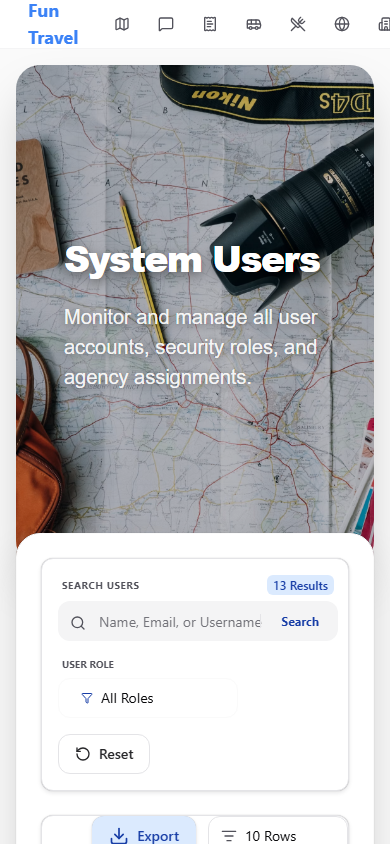
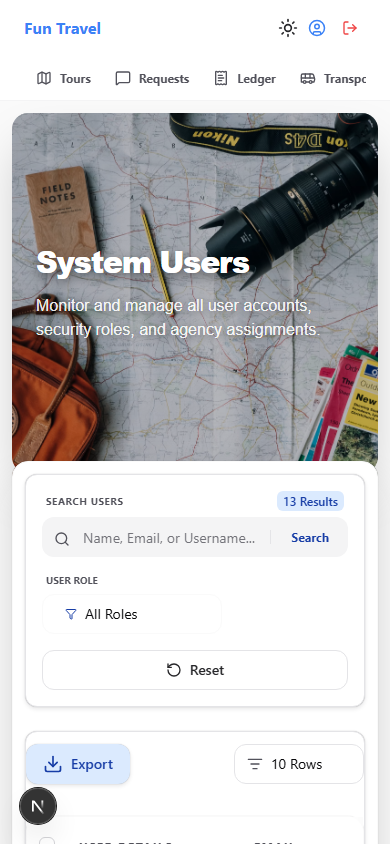
make the pages responsive to the mobile

diff --git a/src/components/Tabs/TabsManager.tsx b/src/components/Tabs/TabsManager.tsx
@@ -9,7 +9,7 @@ import { useNotificationContext } from "@/utilities/NotificationContext";
 import { SmartLink } from "../SmartLink";
 import type { TabItem } from "@/interface/props/common/TabsManagerProps";
 
-export const TabsManager = () => {
+export const TabsManager = ({ mobile = false }: { mobile?: boolean }) => {
   const { isAdmin, isAuthenticated, loading } = useAuth();
   const { unreadCount } = useNotificationContext();
   const location = useLocation();
@@ -65,13 +65,13 @@ export const TabsManager = () => {
 
   return (
     <Tabs.Root value={currentTab} variant="line" colorPalette="blue" size="sm" lazyMount>
-      <Tabs.List borderBottom="none" gap={1} alignItems="center">
+      <Tabs.List borderBottom="none" gap={mobile ? 0 : 1} alignItems="center" minW={mobile ? "max-content" : undefined}>
         {visibleTabs.map((tab: TabItem) => {
           const isNotifyTab = tab.isNotification;
           const hasUnread = isNotifyTab && unreadCount > 0;
           return (
             <SmartLink key={tab.value} to={tab.path}>
-              <Tabs.Trigger value={tab.value} px={3} py={2}>
+              <Tabs.Trigger value={tab.value} px={mobile ? 3 : 3} py={2} minH={mobile ? "44px" : undefined}>
                 <Box as="span" display="flex" alignItems="center" position="relative">
                   <Box position="relative" display="flex" alignItems="center">
                     <Icon size="sm" color={hasUnread ? "blue.500" : "inherit"}>
@@ -83,7 +83,7 @@ export const TabsManager = () => {
                       </Float>
                     )}
                   </Box>
-                  <Text display={{ base: "none", md: "block" }} fontSize="xs" fontWeight="bold" ml={2} color={hasUnread ? "blue.600" : "inherit"}>
+                  <Text display={mobile ? "block" : { base: "none", md: "block" }} fontSize="xs" fontWeight="bold" ml={2} whiteSpace="nowrap" color={hasUnread ? "blue.600" : "inherit"}>
                     {tab.label}
                   </Text>
                   {hasUnread && (

diff --git a/src/components/NavBar.tsx b/src/components/NavBar.tsx
@@ -12,21 +12,25 @@ export const NavBar = () => {
 
   return (
     <Box
-      px={3}
+      px={{ base: 2, md: 3 }}
       bg={{ base: "white", _dark: "gray.950" }}
       borderBottom="1px solid"
       borderColor={{ base: "gray.100", _dark: "gray.800" }}
       position="sticky" top="0" zIndex="sticky"
     >
       <Container maxW="7xl">
-        <Flex h={12} alignItems="center" justifyContent="space-between">
-          <HStack gap={6}>
-            <SmartLink to="/">
-<Text fontSize="lg" fontWeight="bold" color="blue.500" cursor="pointer" _hover={{ opacity: 0.8 }}>
-                Fun Travel
-              </Text>
-            </SmartLink>
-            <TabsManager />
+        <Flex h={{ base: 14, xl: 12 }} alignItems="center" justifyContent="space-between">
+          <HStack gap={{ base: 2, xl: 6 }} minW={0}>
+            <Box flexShrink={0}>
+              <SmartLink to="/">
+                <Text fontSize={{ base: "md", md: "lg" }} whiteSpace="nowrap" fontWeight="bold" color="blue.500" cursor="pointer" _hover={{ opacity: 0.8 }}>
+                  Fun Travel
+                </Text>
+              </SmartLink>
+            </Box>
+            <Box display={{ base: "none", xl: "block" }}>
+              <TabsManager />
+            </Box>
           </HStack>
 
           <HStack gap={1}>
@@ -57,6 +61,14 @@ export const NavBar = () => {
             )}
           </HStack>
         </Flex>
+        <Box
+          display={{ base: "block", xl: "none" }}
+          overflowX="auto"
+          overscrollBehaviorX="contain"
+          css={{ scrollbarWidth: "none", "&::-webkit-scrollbar": { display: "none" } }}
+        >
+          <TabsManager mobile />
+        </Box>
       </Container>
     </Box>
   );

diff --git a/src/components/TourManagement/Transportation/TransportationHeader.tsx b/src/components/TourManagement/Transportation/TransportationHeader.tsx
@@ -1,4 +1,4 @@
-import { HStack, VStack, Heading, Text, Button, Box } from "@chakra-ui/react";
+import { HStack, Stack, VStack, Heading, Text, Button, Box } from "@chakra-ui/react";
 import { FileUp, Plus } from "lucide-react";
 import { UnifiedFilterBar } from "../../ui/Custom/UnifiedFilterBar";
 import { ContentCard } from "../../ui/Custom/ContentCard";
@@ -32,13 +32,13 @@ export const TransportationHeader = ({
   return (
     <ContentCard
       header={
-        <HStack justify="space-between" width="full">
+        <Stack direction={{ base: "column", md: "row" }} align={{ base: "stretch", md: "center" }} justify="space-between" width="full" gap={3}>
           <VStack align="start" gap={0}>
             <Heading size="md" letterSpacing="tight" fontWeight="black">Fleet Inventory</Heading>
             <Text color="fg.muted" fontSize="xs">Advanced Resource Search & Management</Text>
           </VStack>
-          <HStack>
-          <Button variant="outline" size="sm" onClick={onImport} borderRadius="full">
+          <HStack flexWrap="wrap">
+          <Button flex={{ base: 1, sm: "initial" }} variant="outline" size="sm" onClick={onImport} borderRadius="full">
             <FileUp size={16} /> Import Excel
           </Button>
           <Button
@@ -48,12 +48,13 @@ export const TransportationHeader = ({
             variant="solid"
             borderRadius="full"
             px={5}
+            flex={{ base: 1, sm: "initial" }}
             _hover={{ transform: "scale(1.02)" }}
           >
             <Plus size={16} /> Register Unit
           </Button>
           </HStack>
-        </HStack>
+        </Stack>
       }
     >
       <Box p={4}>

diff --git a/src/components/ui/Custom/Hero.tsx b/src/components/ui/Custom/Hero.tsx
@@ -14,12 +14,12 @@ export const Hero = ({
   return (
     <Box
       position="relative"
-      borderRadius="3xl"
-      mx={4}
-      mt={4}
-      mb={12}
+      borderRadius={{ base: "2xl", md: "3xl" }}
+      mx={{ base: 3, md: 4 }}
+      mt={{ base: 3, md: 4 }}
+      mb={{ base: 6, md: 12 }}
       overflow="hidden"
-      minH="500px"
+      minH={{ base: "360px", sm: "420px", md: "500px" }}
       display="flex"
       alignItems="center"
       boxShadow="0 25px 50px -12px rgba(0, 0, 0, 0.25)"
@@ -34,10 +34,10 @@ export const Hero = ({
         />
       </Box>
 
-      <Container maxW="7xl" position="relative" zIndex={1} px={12}>
-        <VStack gap={6} align="flex-start" maxW="3xl">
+      <Container maxW="7xl" position="relative" zIndex={1} px={{ base: 6, sm: 8, md: 12 }}>
+        <VStack gap={{ base: 4, md: 6 }} align="flex-start" maxW="3xl">
           <Heading
-            size="4xl"
+            fontSize={{ base: "3xl", sm: "4xl", md: "5xl" }}
             fontWeight="900"
             color="white"
             fontFamily="'Plus Jakarta Sans', sans-serif"
@@ -49,7 +49,7 @@ export const Hero = ({
           </Heading>
 
           <Text
-            fontSize="xl"
+            fontSize={{ base: "md", sm: "lg", md: "xl" }}
             color="whiteAlpha.900"
             fontWeight="500"
             fontFamily="'Plus Jakarta Sans', sans-serif"

diff --git a/src/components/ui/Custom/DataTableComponents/TableHeader.tsx b/src/components/ui/Custom/DataTableComponents/TableHeader.tsx
@@ -1,5 +1,6 @@
 import {
   HStack,
+  Stack,
   Box,
   Input,
   Button,
@@ -40,7 +41,7 @@ export const TableToolbar = ({
   setPageSize,
 }: TableToolbarProps) => {
   return (
-    <HStack justifyContent="space-between" pb={4} width="full">
+    <Stack direction={{ base: "column", sm: "row" }} align={{ base: "stretch", sm: "center" }} justifyContent="space-between" pb={4} width="full" gap={3}>
 {!searchDisabled ? (
         <Box position="relative" maxW="400px" width="full">
           <Box
@@ -75,7 +76,7 @@ export const TableToolbar = ({
       ) : (
 <Box flex={1} />
       )}
-<HStack gap={3}>
+<HStack gap={2} justify={{ base: "space-between", sm: "flex-end" }} width={{ base: "full", sm: "auto" }}>
         {enableExport && (
           <>
             <Button
@@ -100,7 +101,7 @@ export const TableToolbar = ({
         )}
 <Select.Root
           size="md"
-          width="140px"
+          width={{ base: "130px", sm: "140px" }}
           collection={pageSizeOptions}
           value={[pageSize.toString()]}
           onValueChange={(details) => {
@@ -143,6 +144,6 @@ export const TableToolbar = ({
           </Portal>
         </Select.Root>
       </HStack>
-    </HStack>
+    </Stack>
   );
 };

diff --git a/src/components/ui/Custom/UnifiedFilterBar.tsx b/src/components/ui/Custom/UnifiedFilterBar.tsx
@@ -43,7 +43,7 @@ export const UnifiedFilterBar = ({
 
   return (
     <HStack gap={4} width="full" align="flex-end" flexWrap="wrap">
-<VStack align="start" gap={1.5} flex="1" minW="280px">
+<VStack align="start" gap={1.5} flex="1" minW={{ base: "full", sm: "280px" }}>
         <HStack width="full" justify="space-between" px={1}>
           <Text fontSize="2xs" fontWeight="bold" color="fg.muted" textTransform="uppercase" letterSpacing="wider">
             {searchLabel}
@@ -89,7 +89,7 @@ export const UnifiedFilterBar = ({
         <FilterCombobox key={`${idx}-${f.value}`} f={f} />
       ))}
       <Button
-        size="sm" variant="outline" h="10" borderRadius="xl" px={4}
+        size="sm" variant="outline" h="10" borderRadius="xl" px={4} width={{ base: "full", sm: "auto" }}
         onClick={() => { setLocalSearch(""); onReset(); }}
         _hover={{ bg: "red.100", color: "red.600" }}
         title="Reset all filters"

diff --git a/src/components/ui/Custom/DataTable.tsx b/src/components/ui/Custom/DataTable.tsx
@@ -69,11 +69,12 @@ export function DataTable<T extends { id?: number | string | null }>(props: Data
           borderRadius="2xl"
           borderWidth="1px"
           borderColor="border.subtle"
-          overflow="hidden"
+          overflowX="auto"
+          overflowY="hidden"
           bg="bg.panel"
           shadow="xs"
         >
-          <Table.Root size="md" variant="line" interactive>
+          <Table.Root size="md" variant="line" interactive minW={{ base: "760px", md: "full" }}>
             <Table.Header bg={headerBg} backdropFilter="blur(10px)">
               <Table.Row borderBottomWidth="2px">
                 {showSelect && (

diff --git a/src/components/ui/Custom/PageWrapper.tsx b/src/components/ui/Custom/PageWrapper.tsx
@@ -24,14 +24,15 @@ export const PageWrapper = ({
 
       <Container
         maxW="7xl"
-        mt="-80px"
+        px={{ base: 3, md: 4 }}
+        mt={{ base: "-36px", md: "-80px" }}
         position="relative"
         zIndex={10}
       >
         <Box
           bg="bg.panel"
-          p={6}
-          borderRadius="3xl"
+          p={{ base: 3, sm: 4, md: 6 }}
+          borderRadius={{ base: "2xl", md: "3xl" }}
           shadow="2xl"
           borderWidth="1px"
           borderColor="border.subtle"

diff --git a/README.md b/README.md
@@ -127,35 +127,67 @@ Tables support exporting the current data set—or selected rows—as a printabl
 
 ### Mobile Responsive Experience
 
-The mobile views below were captured at a `390 × 844` phone viewport.
+The mobile views below were captured at a `390 × 844` phone viewport after optimizing the navigation, page spacing, filters, actions, and data tables for smaller screens.
 
-#### Mobile Home
+#### Light Mode
+
+##### Mobile Home
 
 ![Fun Travels responsive mobile home page](docs/images/mobile-light-home.png)
 
-#### Mobile Tour Catalog
+##### Mobile Tour Catalog
 
 ![Fun Travels responsive mobile tour catalog](docs/images/mobile-light-tours.png)
 
-#### Mobile Sign In
+##### Mobile Sign In
 
 ![Fun Travels responsive mobile sign-in page](docs/images/mobile-light-login.png)
 
-#### Mobile Profile
+##### Mobile Profile
 
 ![Fun Travels responsive mobile administrator profile](docs/images/mobile-light-profile.png)
 
-#### Mobile Tour Inventory
+##### Mobile Tour Inventory
 
 ![Fun Travels responsive mobile tour inventory](docs/images/mobile-light-admin-tours.png)
 
-#### Mobile Customer Requests
+##### Mobile Customer Requests
 
 ![Fun Travels responsive mobile customer requests](docs/images/mobile-light-admin-requests.png)
 
-#### Mobile System Users
+##### Mobile System Users
 
 ![Fun Travels responsive mobile system users](docs/images/mobile-light-admin-users.png)
+
+#### Dark Mode
+
+##### Mobile Home
+
+![Fun Travels responsive mobile home page in dark mode](docs/images/mobile-dark-home.png)
+
+##### Mobile Tour Catalog
+
+![Fun Travels responsive mobile tour catalog in dark mode](docs/images/mobile-dark-tours.png)
+
+##### Mobile Sign In
+
+![Fun Travels responsive mobile sign-in page in dark mode](docs/images/mobile-dark-login.png)
+
+##### Mobile Profile
+
+![Fun Travels responsive mobile administrator profile in dark mode](docs/images/mobile-dark-profile.png)
+
+##### Mobile Tour Inventory
+
+![Fun Travels responsive mobile tour inventory in dark mode](docs/images/mobile-dark-admin-tours.png)
+
+##### Mobile Customer Requests
+
+![Fun Travels responsive mobile customer requests in dark mode](docs/images/mobile-dark-admin-requests.png)
+
+##### Mobile System Users
+
+![Fun Travels responsive mobile system users in dark mode](docs/images/mobile-dark-admin-users.png)
 
 ## Quick Start
 
